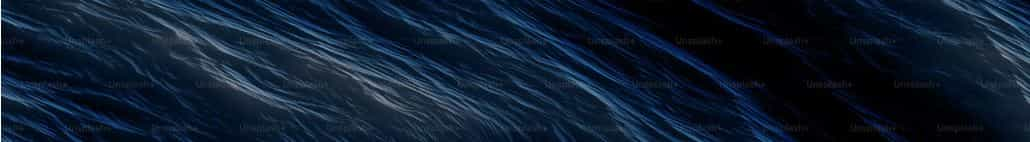
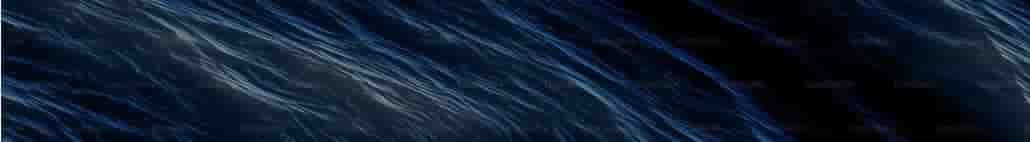
Actualizacion Imagenes

diff --git a/index.html b/index.html
@@ -2,7 +2,7 @@
 <html lang="en">
 <head>
     <meta charset="UTF-8">
-    <link rel="shortcut icon" href="./assets/icons/dogfavicon.png">
+    <link rel="shortcut icon" href="./assets/icons/dogfavicon.jpg">
     <meta name="viewport" content="width=device-width, initial-scale=1.0">  
 
     <!-- Aplicación de SEO -->    
@@ -39,7 +39,7 @@
     <nav class="navbar navbar-expand-lg navbar-light bg-light">
       <!-- Logo -->
           <a class="navbar-brand" href="#">
-              <img class="navbar-collapse"  src="./assets/img/Logo.PNG" width="60" height="60" alt="logo">
+              <img class="navbar-collapse"  src="./assets/img/Logo.jpg" width="60" height="60" alt="logo">
           </a>
       <!-- Boton Hamburguesa -->
           <button class="navbar-toggler" type="button" data-toggle="collapse" data-target="#navbarSupportedContent"
@@ -84,7 +84,7 @@
       <div id="carouselExample" class="carousel slide">
         <div class="carousel-inner">
           <div class="carousel-item active">
-            <img src="./assets/img/principal.PNG" class="d-block w-100" alt="Principal">
+            <img src="./assets/img/principal.jpg" class="d-block w-100" alt="Principal">
           </div>
           <div class="carousel-item">
             <img src="./assets/img/principal3.jpg" class="d-block w-100" alt="Principal 2">
@@ -111,7 +111,7 @@
         <h4 class="titOfertas">OFERTAS</h4>
         <main class="grid">
           <article class="text-center" data-aos="flip-left" data-aos-easing="ease-out-cubic" data-aos-duration="2000">
-            <img  src="./assets/img/oferta1.PNG" alt="oferta1">
+            <img  src="./assets/img/oferta1.jpg" alt="oferta1">
             <div class="text">
               <h5>Alimento - Old Prince</h5>
               <p>Alimento Old Prince Novel Cordero y Arroz Perro Adulto Mediano y Grande - 15+3 Kg.</p>
@@ -119,7 +119,7 @@
             </div>
           </article>
           <article class="text-center" data-aos="flip-left" data-aos-easing="ease-out-cubic" data-aos-duration="2000">
-            <img src="./assets/img/oferta2.PNG" alt="oferta2">
+            <img src="./assets/img/oferta2.jpg" alt="oferta2">
             <div class="text">
               <h5>Alimento - Perros Pollo</h5>
               <p>Alimento Old Prince Premium de Pollo y Carne Perro Adulto Raza Mediana - 20+3 Kg.</p>
@@ -127,7 +127,7 @@
             </div>
           </article>
           <article class="text-center" data-aos="flip-left" data-aos-easing="ease-out-cubic"data-aos-duration="2000">
-            <img src="./assets/img/oferta3.PNG" alt="oferta3">
+            <img src="./assets/img/oferta3.jpg" alt="oferta3">
             <div class="text">
               <h5>Cat - Piedras Sanitarias</h5>
               <p>Piedras Sanitarias Sanicat Strong Clumps - 7 Kg.</p>
@@ -135,7 +135,7 @@
             </div>
           </article>
           <article class="text-center" data-aos="flip-left" data-aos-easing="ease-out-cubic" data-aos-duration="2000">
-            <img src="./assets/img/oferta4.PNG" alt="oferta4">
+            <img src="./assets/img/oferta4.jpg" alt="oferta4">
             <div class="text">
               <h5>Alimento - Excellent</h5>
               <p>Alimento Excellent Gato Sterilized Pollo - 7,5 Kg</p>
@@ -143,7 +143,7 @@
             </div>
           </article>
           <article class="text-center" data-aos="flip-left" data-aos-easing="ease-out-cubic" data-aos-duration="2000">
-            <img src="./assets/img/oferta5.PNG" alt="oferta5">
+            <img src="./assets/img/oferta5.jpg" alt="oferta5">
             <div class="text">
               <h5>Golecam Bocaditos Pollo</h5>
               <p>Golocan Bocaditos Finos Carne/Pollo/Chocolate - 100 Gr.</p>
@@ -151,7 +151,7 @@
             </div>
           </article>
           <article class="text-center" data-aos="flip-left" data-aos-easing="ease-out-cubic" data-aos-duration="2000">
-            <img src="./assets/img/oferta6.PNG" alt="oferta6">
+            <img src="./assets/img/oferta6.jpg" alt="oferta6">
             <div class="text">
               <h5>Lata Cat Salom</h5>
               <p>Lata Oh my Cat Salmón Adulto - 340 Gr.</p>

diff --git a/pages/contactos.html b/pages/contactos.html
@@ -2,7 +2,7 @@
 <html lang="en">
 <head>
     <meta charset="UTF-8">
-    <link rel="shortcut icon" href="../assets/icons/iconoPagina.PNG">
+    <link rel="shortcut icon" href="../assets/icons/iconoPagina.jpg">
     <meta name="viewport" content="width=device-width, initial-scale=1.0">
     <meta name="viewport" content="width=device-width, initial-scale=1.0">
 
@@ -36,7 +36,7 @@
             <nav class="navbar navbar-expand-lg navbar-light bg-light">
                 <!-- Logo -->
                 <a class="navbar-brand" href="../index.html">
-                    <img class="navbar-collapse" src="../assets/img/Logo.PNG" width="60" height="60" alt="logo">
+                    <img class="navbar-collapse" src="../assets/img/Logo.jpg" width="60" height="60" alt="logo">
                 </a>
                 <!-- Boton Hamburguesa -->
                 <button class="navbar-toggler" type="button" data-toggle="collapse" data-target="#navbarSupportedContent"

diff --git a/pages/mi-cuenta.html b/pages/mi-cuenta.html
@@ -2,7 +2,7 @@
 <html lang="en">
 <head>
     <meta charset="UTF-8">
-    <link rel="shortcut icon" href="../assets/icons/iconoPagina.PNG">
+    <link rel="shortcut icon" href="../assets/icons/iconoPagina.jpg">
     <meta name="viewport" content="width=device-width, initial-scale=1.0">
 
     <!-- Aplicación de SEO -->    
@@ -35,7 +35,7 @@
         <nav class="navbar navbar-expand-lg navbar-light bg-light">
             <!-- Logo -->
             <a class="navbar-brand" href="../index.html">
-                <img class="navbar-collapse" src="../assets/img/Logo.PNG" width="60" height="60" alt="logo">
+                <img class="navbar-collapse" src="../assets/img/Logo.jpg" width="60" height="60" alt="logo">
             </a>
             <!-- Boton Hamburguesa -->
             <button class="navbar-toggler" type="button" data-toggle="collapse" data-target="#navbarSupportedContent"

diff --git a/pages/perros-snacks.html b/pages/perros-snacks.html
@@ -3,7 +3,7 @@
 
 <head>
     <meta charset="UTF-8">
-    <link rel="shortcut icon" href="../assets/icons/iconoPagina.PNG">
+    <link rel="shortcut icon" href="../assets/icons/iconoPagina.jpg">
     <meta name="viewport" content="width=device-width, initial-scale=1.0">
 
     <!-- Aplicación de SEO -->
@@ -39,7 +39,7 @@
         <nav class="navbar navbar-expand-lg navbar-light bg-light">
             <!-- Logo -->
             <a class="navbar-brand" href="../index.html">
-                <img class="navbar-collapse" src="../assets/img/Logo.PNG" width="60" height="60" alt="logo">
+                <img class="navbar-collapse" src="../assets/img/Logo.jpg" width="60" height="60" alt="logo">
             </a>
             <!-- Boton Hamburguesa -->
             <button class="navbar-toggler" type="button" data-toggle="collapse" data-target="#navbarSupportedContent"

diff --git a/pages/mailingOfertas.html b/pages/mailingOfertas.html
@@ -3,7 +3,7 @@
 
 <head>
     <meta charset="UTF-8">
-    <link rel="shortcut icon" href="../assets/icons/iconoPagina.PNG">
+    <link rel="shortcut icon" href="../assets/icons/iconoPagina.jpg">
     <meta name="viewport" content="width=device-width, initial-scale=1.0">
 
     <!-- Aplicación de SEO -->

diff --git a/pages/sucursales.html b/pages/sucursales.html
@@ -3,7 +3,7 @@
 
 <head>
     <meta charset="UTF-8">
-    <link rel="shortcut icon" href="../assets/icons/iconoPagina.PNG">
+    <link rel="shortcut icon" href="../assets/icons/iconoPagina.jpg">
     <meta name="viewport" content="width=device-width, initial-scale=1.0">
 
     <!-- Aplicación de SEO -->
